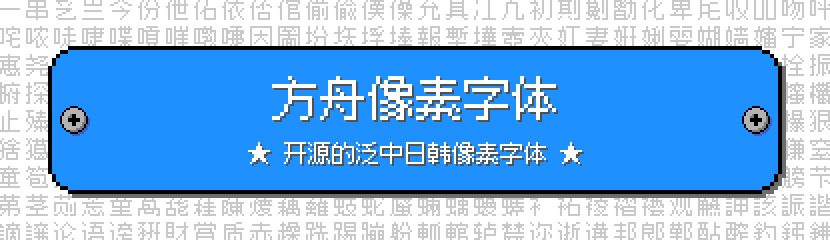
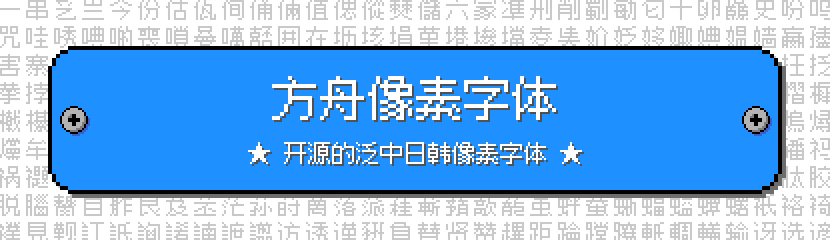
2025.07.21

Changed region(s): [[0.0, 0.2333, 1.0, 1.0], [0.0, 0.0, 1.0, 0.4375], [0.9337, 0.4667, 1.0, 0.6708]]

diff --git a/tools/configs/__init__.py b/tools/configs/__init__.py
@@ -1,7 +1,7 @@
 from tools.configs import path_define, options
 from tools.configs.font import FontConfig
 
-version = '2025.07.17'
+version = '2025.07.21'
 
 font_configs = {font_size: FontConfig.load(font_size) for font_size in options.font_sizes}
 

diff --git a/docs/info-12px-monospaced.md b/docs/info-12px-monospaced.md
@@ -4,8 +4,8 @@
 
 | 属性 | 值 |
 |---|---|
-| 版本号 | 2025.07.17 |
-| 字符总数 | 18769 |
+| 版本号 | 2025.07.21 |
+| 字符总数 | 19420 |
 
 ## Unicode 字符分布
 
@@ -42,17 +42,18 @@ Unicode 版本：16.0.0
 | 3130 ~ 318F | Hangul Compatibility Jamo | 谚文兼容字母 | 94 / 94 | 0 | 100.00% 🚩 |
 | 3200 ~ 32FF | Enclosed CJK Letters and Months | 包围中日韩字母与月份 | 92 / 255 | 163 | 36.08% 🚧 |
 | 3300 ~ 33FF | CJK Compatibility | 中日韩兼容 | 60 / 256 | 196 | 23.44% 🚧 |
-| 3400 ~ 4DBF | CJK Unified Ideographs Extension A | 中日韩统一表意文字扩充 A | 81 / 6592 | 6511 | 1.23% 🚧 |
-| 4E00 ~ 9FFF | CJK Unified Ideographs | 中日韩统一表意文字 | 15997 / 20992 | 4995 | 76.21% 🚧 |
+| 3400 ~ 4DBF | CJK Unified Ideographs Extension A | 中日韩统一表意文字扩充 A | 119 / 6592 | 6473 | 1.81% 🚧 |
+| 4E00 ~ 9FFF | CJK Unified Ideographs | 中日韩统一表意文字 | 16570 / 20992 | 4422 | 78.93% 🚧 |
 | FE10 ~ FE1F | Vertical Forms | 竖排形式 | 10 / 10 | 0 | 100.00% 🚩 |
 | FE30 ~ FE4F | CJK Compatibility Forms | 中日韩兼容形式 | 32 / 32 | 0 | 100.00% 🚩 |
 | FF00 ~ FFEF | Halfwidth and Fullwidth Forms | 半宽与全宽形式 | 173 / 225 | 52 | 76.89% 🚧 |
 | FFF0 ~ FFFF | Specials | 特殊 | 2 / 2 | 0 | 100.00% 🚩 |
-| 20000 ~ 2A6DF | CJK Unified Ideographs Extension B | 中日韩统一表意文字扩充 B | 25 / 42720 | 42695 | 0.06% 🚧 |
-| 2A700 ~ 2B73F | CJK Unified Ideographs Extension C | 中日韩统一表意文字扩充 C | 1 / 4154 | 4153 | 0.02% 🚧 |
-| 2B740 ~ 2B81F | CJK Unified Ideographs Extension D | 中日韩统一表意文字扩充 D | 1 / 222 | 221 | 0.45% 🚧 |
-| 2B820 ~ 2CEAF | CJK Unified Ideographs Extension E | 中日韩统一表意文字扩充 E | 1 / 5762 | 5761 | 0.02% 🚧 |
+| 20000 ~ 2A6DF | CJK Unified Ideographs Extension B | 中日韩统一表意文字扩充 B | 34 / 42720 | 42686 | 0.08% 🚧 |
+| 2A700 ~ 2B73F | CJK Unified Ideographs Extension C | 中日韩统一表意文字扩充 C | 22 / 4154 | 4132 | 0.53% 🚧 |
+| 2B740 ~ 2B81F | CJK Unified Ideographs Extension D | 中日韩统一表意文字扩充 D | 4 / 222 | 218 | 1.80% 🚧 |
+| 2B820 ~ 2CEAF | CJK Unified Ideographs Extension E | 中日韩统一表意文字扩充 E | 7 / 5762 | 5755 | 0.12% 🚧 |
 | 2CEB0 ~ 2EBEF | CJK Unified Ideographs Extension F | 中日韩统一表意文字扩充 F | 1 / 7473 | 7472 | 0.01% 🚧 |
+| 30000 ~ 3134F | CJK Unified Ideographs Extension G | 中日韩统一表意文字扩充 G | 1 / 4939 | 4938 | 0.02% 🚧 |
 
 ## GB2312 字符分布
 
@@ -60,10 +61,10 @@ Unicode 版本：16.0.0
 
 | 区块名称 | 完成数 | 缺失数 | 进度 |
 |---|---:|---:|---:|
-| 一级汉字 | 3333 / 3755 | 422 | 88.76% 🚧 |
-| 二级汉字 | 2390 / 3008 | 618 | 79.45% 🚧 |
+| 一级汉字 | 3391 / 3755 | 364 | 90.31% 🚧 |
+| 二级汉字 | 2471 / 3008 | 537 | 82.15% 🚧 |
 | 其他字符 | 651 / 682 | 31 | 95.45% 🚧 |
-| 总计 | 6374 / 7445 | 1071 | 85.61% 🚧 |
+| 总计 | 6513 / 7445 | 932 | 87.48% 🚧 |
 
 ## Big5 字符分布
 
@@ -71,10 +72,10 @@ Unicode 版本：16.0.0
 
 | 区块名称 | 完成数 | 缺失数 | 进度 |
 |---|---:|---:|---:|
-| 常用汉字 | 4392 / 5401 | 1009 | 81.32% 🚧 |
-| 次常用汉字 | 5585 / 7652 | 2067 | 72.99% 🚧 |
-| 其他字符 | 343 / 408 | 65 | 84.07% 🚧 |
-| 总计 | 10320 / 13461 | 3141 | 76.67% 🚧 |
+| 常用汉字 | 4513 / 5401 | 888 | 83.56% 🚧 |
+| 次常用汉字 | 5814 / 7652 | 1838 | 75.98% 🚧 |
+| 其他字符 | 344 / 408 | 64 | 84.31% 🚧 |
+| 总计 | 10671 / 13461 | 2790 | 79.27% 🚧 |
 
 ## Shift-JIS 字符分布
 
@@ -85,8 +86,8 @@ Unicode 版本：16.0.0
 | 单字节-ASCII可打印字符 | 95 / 95 | 0 | 100.00% 🚩 |
 | 单字节-半角片假名 | 63 / 63 | 0 | 100.00% 🚩 |
 | 双字节-其他字符 | 492 / 524 | 32 | 93.89% 🚧 |
-| 双字节-汉字 | 5084 / 6355 | 1271 | 80.00% 🚧 |
-| 总计 | 5734 / 7037 | 1303 | 81.48% 🚧 |
+| 双字节-汉字 | 5230 / 6355 | 1125 | 82.30% 🚧 |
+| 总计 | 5880 / 7037 | 1157 | 83.56% 🚧 |
 
 ## KS-X-1001 字符分布
 
@@ -95,6 +96,6 @@ Unicode 版本：16.0.0
 | 区块名称 | 完成数 | 缺失数 | 进度 |
 |---|---:|---:|---:|
 | 谚文音节 | 0 / 2350 | 2350 | 0.00% 🚧 |
-| 汉字 | 3773 / 4888 | 1115 | 77.19% 🚧 |
+| 汉字 | 3866 / 4888 | 1022 | 79.09% 🚧 |
 | 其他字符 | 786 / 988 | 202 | 79.55% 🚧 |
-| 总计 | 4559 / 8226 | 3667 | 55.42% 🚧 |
+| 总计 | 4652 / 8226 | 3574 | 56.55% 🚧 |

diff --git a/docs/info-12px-proportional.md b/docs/info-12px-proportional.md
@@ -4,8 +4,8 @@
 
 | 属性 | 值 |
 |---|---|
-| 版本号 | 2025.07.17 |
-| 字符总数 | 18769 |
+| 版本号 | 2025.07.21 |
+| 字符总数 | 19420 |
 
 ## Unicode 字符分布
 
@@ -42,17 +42,18 @@ Unicode 版本：16.0.0
 | 3130 ~ 318F | Hangul Compatibility Jamo | 谚文兼容字母 | 94 / 94 | 0 | 100.00% 🚩 |
 | 3200 ~ 32FF | Enclosed CJK Letters and Months | 包围中日韩字母与月份 | 92 / 255 | 163 | 36.08% 🚧 |
 | 3300 ~ 33FF | CJK Compatibility | 中日韩兼容 | 60 / 256 | 196 | 23.44% 🚧 |
-| 3400 ~ 4DBF | CJK Unified Ideographs Extension A | 中日韩统一表意文字扩充 A | 81 / 6592 | 6511 | 1.23% 🚧 |
-| 4E00 ~ 9FFF | CJK Unified Ideographs | 中日韩统一表意文字 | 15997 / 20992 | 4995 | 76.21% 🚧 |
+| 3400 ~ 4DBF | CJK Unified Ideographs Extension A | 中日韩统一表意文字扩充 A | 119 / 6592 | 6473 | 1.81% 🚧 |
+| 4E00 ~ 9FFF | CJK Unified Ideographs | 中日韩统一表意文字 | 16570 / 20992 | 4422 | 78.93% 🚧 |
 | FE10 ~ FE1F | Vertical Forms | 竖排形式 | 10 / 10 | 0 | 100.00% 🚩 |
 | FE30 ~ FE4F | CJK Compatibility Forms | 中日韩兼容形式 | 32 / 32 | 0 | 100.00% 🚩 |
 | FF00 ~ FFEF | Halfwidth and Fullwidth Forms | 半宽与全宽形式 | 173 / 225 | 52 | 76.89% 🚧 |
 | FFF0 ~ FFFF | Specials | 特殊 | 2 / 2 | 0 | 100.00% 🚩 |
-| 20000 ~ 2A6DF | CJK Unified Ideographs Extension B | 中日韩统一表意文字扩充 B | 25 / 42720 | 42695 | 0.06% 🚧 |
-| 2A700 ~ 2B73F | CJK Unified Ideographs Extension C | 中日韩统一表意文字扩充 C | 1 / 4154 | 4153 | 0.02% 🚧 |
-| 2B740 ~ 2B81F | CJK Unified Ideographs Extension D | 中日韩统一表意文字扩充 D | 1 / 222 | 221 | 0.45% 🚧 |
-| 2B820 ~ 2CEAF | CJK Unified Ideographs Extension E | 中日韩统一表意文字扩充 E | 1 / 5762 | 5761 | 0.02% 🚧 |
+| 20000 ~ 2A6DF | CJK Unified Ideographs Extension B | 中日韩统一表意文字扩充 B | 34 / 42720 | 42686 | 0.08% 🚧 |
+| 2A700 ~ 2B73F | CJK Unified Ideographs Extension C | 中日韩统一表意文字扩充 C | 22 / 4154 | 4132 | 0.53% 🚧 |
+| 2B740 ~ 2B81F | CJK Unified Ideographs Extension D | 中日韩统一表意文字扩充 D | 4 / 222 | 218 | 1.80% 🚧 |
+| 2B820 ~ 2CEAF | CJK Unified Ideographs Extension E | 中日韩统一表意文字扩充 E | 7 / 5762 | 5755 | 0.12% 🚧 |
 | 2CEB0 ~ 2EBEF | CJK Unified Ideographs Extension F | 中日韩统一表意文字扩充 F | 1 / 7473 | 7472 | 0.01% 🚧 |
+| 30000 ~ 3134F | CJK Unified Ideographs Extension G | 中日韩统一表意文字扩充 G | 1 / 4939 | 4938 | 0.02% 🚧 |
 
 ## GB2312 字符分布
 
@@ -60,10 +61,10 @@ Unicode 版本：16.0.0
 
 | 区块名称 | 完成数 | 缺失数 | 进度 |
 |---|---:|---:|---:|
-| 一级汉字 | 3333 / 3755 | 422 | 88.76% 🚧 |
-| 二级汉字 | 2390 / 3008 | 618 | 79.45% 🚧 |
+| 一级汉字 | 3391 / 3755 | 364 | 90.31% 🚧 |
+| 二级汉字 | 2471 / 3008 | 537 | 82.15% 🚧 |
 | 其他字符 | 651 / 682 | 31 | 95.45% 🚧 |
-| 总计 | 6374 / 7445 | 1071 | 85.61% 🚧 |
+| 总计 | 6513 / 7445 | 932 | 87.48% 🚧 |
 
 ## Big5 字符分布
 
@@ -71,10 +72,10 @@ Unicode 版本：16.0.0
 
 | 区块名称 | 完成数 | 缺失数 | 进度 |
 |---|---:|---:|---:|
-| 常用汉字 | 4392 / 5401 | 1009 | 81.32% 🚧 |
-| 次常用汉字 | 5585 / 7652 | 2067 | 72.99% 🚧 |
-| 其他字符 | 343 / 408 | 65 | 84.07% 🚧 |
-| 总计 | 10320 / 13461 | 3141 | 76.67% 🚧 |
+| 常用汉字 | 4513 / 5401 | 888 | 83.56% 🚧 |
+| 次常用汉字 | 5814 / 7652 | 1838 | 75.98% 🚧 |
+| 其他字符 | 344 / 408 | 64 | 84.31% 🚧 |
+| 总计 | 10671 / 13461 | 2790 | 79.27% 🚧 |
 
 ## Shift-JIS 字符分布
 
@@ -85,8 +86,8 @@ Unicode 版本：16.0.0
 | 单字节-ASCII可打印字符 | 95 / 95 | 0 | 100.00% 🚩 |
 | 单字节-半角片假名 | 63 / 63 | 0 | 100.00% 🚩 |
 | 双字节-其他字符 | 492 / 524 | 32 | 93.89% 🚧 |
-| 双字节-汉字 | 5084 / 6355 | 1271 | 80.00% 🚧 |
-| 总计 | 5734 / 7037 | 1303 | 81.48% 🚧 |
+| 双字节-汉字 | 5230 / 6355 | 1125 | 82.30% 🚧 |
+| 总计 | 5880 / 7037 | 1157 | 83.56% 🚧 |
 
 ## KS-X-1001 字符分布
 
@@ -95,6 +96,6 @@ Unicode 版本：16.0.0
 | 区块名称 | 完成数 | 缺失数 | 进度 |
 |---|---:|---:|---:|
 | 谚文音节 | 0 / 2350 | 2350 | 0.00% 🚧 |
-| 汉字 | 3773 / 4888 | 1115 | 77.19% 🚧 |
+| 汉字 | 3866 / 4888 | 1022 | 79.09% 🚧 |
 | 其他字符 | 786 / 988 | 202 | 79.55% 🚧 |
-| 总计 | 4559 / 8226 | 3667 | 55.42% 🚧 |
+| 总计 | 4652 / 8226 | 3574 | 56.55% 🚧 |

diff --git a/docs/info-10px-monospaced.md b/docs/info-10px-monospaced.md
@@ -4,7 +4,7 @@
 
 | 属性 | 值 |
 |---|---|
-| 版本号 | 2025.07.17 |
+| 版本号 | 2025.07.21 |
 | 字符总数 | 3249 |
 
 ## Unicode 字符分布

diff --git a/docs/info-10px-proportional.md b/docs/info-10px-proportional.md
@@ -4,7 +4,7 @@
 
 | 属性 | 值 |
 |---|---|
-| 版本号 | 2025.07.17 |
+| 版本号 | 2025.07.21 |
 | 字符总数 | 3398 |
 
 ## Unicode 字符分布

diff --git a/docs/info-16px-monospaced.md b/docs/info-16px-monospaced.md
@@ -4,7 +4,7 @@
 
 | 属性 | 值 |
 |---|---|
-| 版本号 | 2025.07.17 |
+| 版本号 | 2025.07.21 |
 | 字符总数 | 2384 |
 
 ## Unicode 字符分布

diff --git a/docs/info-16px-proportional.md b/docs/info-16px-proportional.md
@@ -4,7 +4,7 @@
 
 | 属性 | 值 |
 |---|---|
-| 版本号 | 2025.07.17 |
+| 版本号 | 2025.07.21 |
 | 字符总数 | 2384 |
 
 ## Unicode 字符分布
